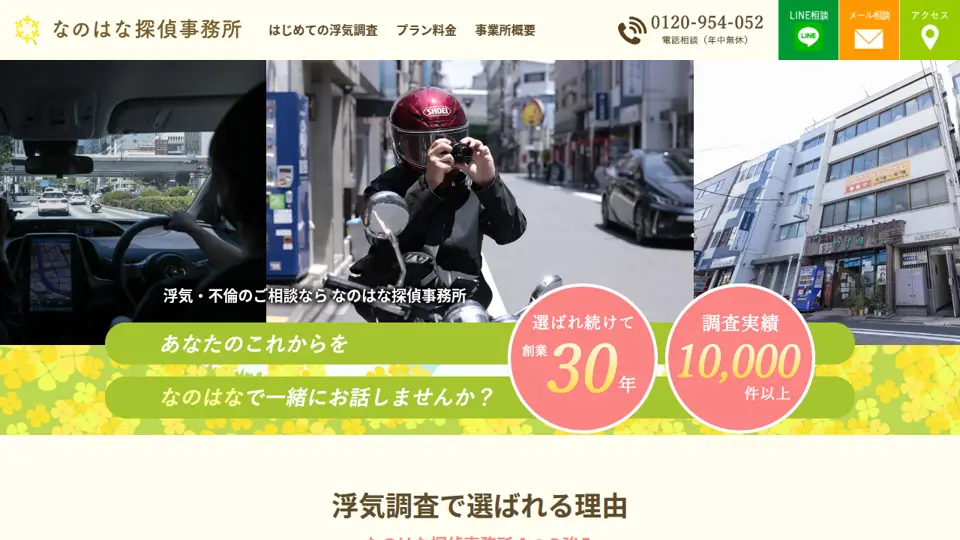
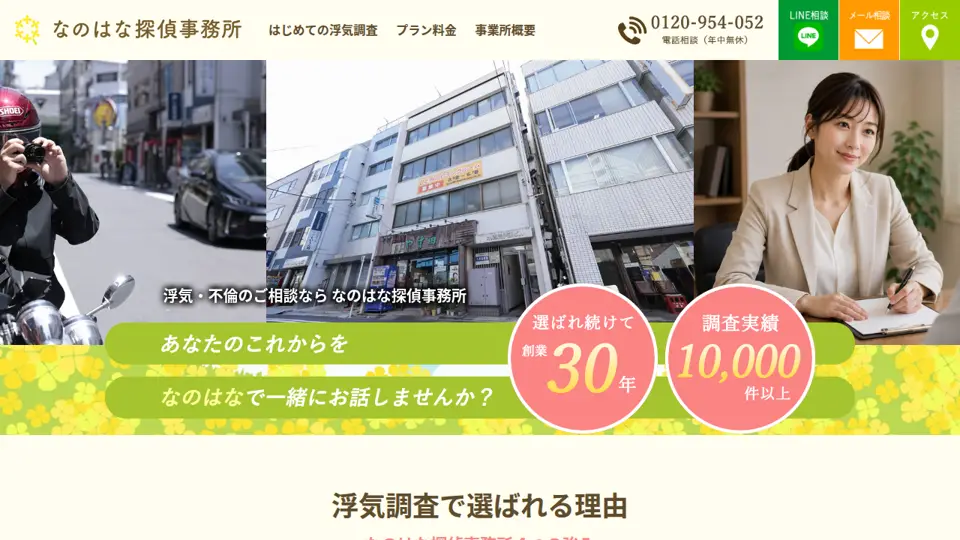
全国探偵検索: 掲載済み探偵社の掲載ページの構成・ヒーロー画像を更新（自動）

diff --git a/index.html b/index.html
@@ -555,7 +555,7 @@ footer.t-foot a:hover{text-decoration:underline}
 .t-recent-list .ad{font-size:.75rem;color:#5b6675}
 .t-recent-list .cp{font-size:.78rem;color:#33404f;line-height:1.5;display:-webkit-box;-webkit-line-clamp:2;-webkit-box-orient:vertical;overflow:hidden}
 @media(max-width:760px){.t-recent-list{display:flex;overflow-x:auto;scroll-snap-type:x mandatory;padding-bottom:8px;-webkit-overflow-scrolling:touch}.t-recent-list li{flex:0 0 72%;scroll-snap-align:start}}
-</style><h2 class="t-h"><svg viewBox="0 0 24 24" fill="none" stroke="currentColor" stroke-width="1.8" stroke-linecap="round" stroke-linejoin="round" aria-hidden="true"><path d="M12 3l2.6 5.3 5.9.9-4.3 4.1 1 5.8L12 16.4 6.8 19.1l1-5.8L3.5 9.2l5.9-.9z"/></svg><b>最近掲載された探偵社</b><i>掲載から30日以内の探偵事務所を、新しい順に表示します</i></h2><ul class="t-recent-list"><li><a href="./biz/45250017.html"><img src="./img/listed/45250017.webp?v=502fc96b" alt="" width="320" height="180" loading="lazy" decoding="async"><span class="bd"><span class="dt">11月26日 掲載</span><span class="nm">コード・シス探偵事務所</span><span class="ad">神奈川県三浦市</span><span class="cp">結果しか出しません!!成果がない場合は全額返金</span></span></a></li><li><a href="./biz/30200255.html"><img src="./img/listed/30200255.webp?v=bdd5a18e" alt="" width="320" height="180" loading="lazy" decoding="async"><span class="bd"><span class="dt">11月26日 掲載</span><span class="nm">なのはな探偵事務所</span><span class="ad">東京都千代田区</span><span class="cp">オールインクルーシブ</span></span></a></li><li><a href="./biz/30120207.html"><img src="./img/listed/30120207.webp?v=e2eeb492" alt="" width="320" height="180" loading="lazy" decoding="async"><span class="bd"><span class="dt">11月26日 掲載</span><span class="nm">総合探偵社よいルーム城北</span><span class="ad">東京都板橋区</span><span class="cp">私たちが普通の生活に戻します</span></span></a></li><li><a href="./biz/44250011.html"><img src="./img/listed/44250011.webp?v=6c846490" alt="" width="320" height="180" loading="lazy" decoding="async"><span class="bd"><span class="dt">11月25日 掲載</span><span class="nm">プライバシーク合同会社千葉支社</span><span class="ad">千葉県市川市</span><span class="cp">法人内での不正を追及します。</span></span></a></li><li><a href="./biz/62251072.html"><img src="./img/listed/62251072.webp?v=0d3c7541" alt="" width="320" height="180" loading="lazy" decoding="async"><span class="bd"><span class="dt">11月24日 掲載</span><span class="nm">シープ探偵社</span><span class="ad">大阪府大阪市天王寺区</span><span class="cp">【お得】初回調査プラン5時間29，800円</span></span></a></li><li><a href="./biz/62240046.html"><img src="./img/listed/62240046.webp?v=2b942b2a" alt="" width="320" height="180" loading="lazy" decoding="async"><span class="bd"><span class="dt">11月22日 掲載</span><span class="nm">MZ総合探偵社</span><span class="ad">大阪府東大阪市</span><span class="cp">名前も電話番号も伝えずに相談できる探偵社。24時間・匿名OK・相談0円</span></span></a></li><li><a href="./biz/45230083.html"><img src="./img/listed/45230083.webp?v=d35a2253" alt="" width="320" height="180" loading="lazy" decoding="async"><span class="bd"><span class="dt">11月20日 掲載</span><span class="nm">そよかぜ探偵事務所横浜営業所</span><span class="ad">神奈川県横浜市西区</span><span class="cp">千葉を代表する企業100選に選出。夫婦のお悩みは浮気調査の専門探偵にお任せください。</span></span></a></li><li><a href="./biz/30230120.html"><img src="./img/listed/30230120.webp?v=d35a2253" alt="" width="320" height="180" loading="lazy" decoding="async"><span class="bd"><span class="dt">11月20日 掲載</span><span class="nm">そよかぜ探偵事務所 東京本店</span><span class="ad">東京都中央区</span><span class="cp">千葉を代表する企業100選に選出。夫婦のお悩みは浮気調査の専門探偵にお任せください。</span></span></a></li><li><a href="./biz/30230307.html"><img src="./img/listed/30230307.webp?v=6858b62f" alt="" width="320" height="180" loading="lazy" decoding="async"><span class="bd"><span class="dt">11月20日 掲載</span><span class="nm">株式会社Beerus</span><span class="ad">東京都・東京都豊島区</span><span class="cp">安全な調査を、安心価格でお届けします。浮気調査・人探しが得意な探偵事務所</span></span></a></li><li><a href="./biz/44250032.html"><img src="./img/listed/44250032.webp?v=d35a2253" alt="" width="320" height="180" loading="lazy" decoding="async"><span class="bd"><span class="dt">11月20日 掲載</span><span class="nm">そよかぜ探偵事務所</span><span class="ad">千葉県市川市</span><span class="cp">千葉を代表する企業100選に選出。夫婦のお悩みは浮気調査の専門探偵にお任せください。</span></span></a></li><li><a href="./biz/55111801.html"><img src="./img/listed/55111801.webp?v=c8ea2e24" alt="" width="320" height="180" loading="lazy" decoding="async"><span class="bd"><span class="dt">11月20日 掲載</span><span class="nm">フューチャーライフ</span><span class="ad">三重県名張市</span><span class="cp">相談のみOK 24時間対応</span></span></a></li><li><a href="./biz/64261701.html"><img src="./img/listed/64261701.webp?v=c029b505" alt="" width="320" height="180" loading="lazy" decoding="async"><span class="bd"><span class="dt">11月20日 掲載</span><span class="nm">総合探偵社シークレットジャパン奈良本部</span><span class="ad">奈良県北葛城郡王寺町</span><span class="cp">奈良県王寺町を拠点に、浮気・素行・人探しなどの調査を承ります。</span></span></a></li></ul></section><!--recent-listed:end-->
+</style><h2 class="t-h"><svg viewBox="0 0 24 24" fill="none" stroke="currentColor" stroke-width="1.8" stroke-linecap="round" stroke-linejoin="round" aria-hidden="true"><path d="M12 3l2.6 5.3 5.9.9-4.3 4.1 1 5.8L12 16.4 6.8 19.1l1-5.8L3.5 9.2l5.9-.9z"/></svg><b>最近掲載された探偵社</b><i>掲載から30日以内の探偵事務所を、新しい順に表示します</i></h2><ul class="t-recent-list"><li><a href="./biz/45250017.html"><img src="./img/listed/45250017.webp?v=84b47580" alt="" width="320" height="180" loading="lazy" decoding="async"><span class="bd"><span class="dt">11月26日 掲載</span><span class="nm">コード・シス探偵事務所</span><span class="ad">神奈川県三浦市</span><span class="cp">結果しか出しません!!成果がない場合は全額返金</span></span></a></li><li><a href="./biz/30200255.html"><img src="./img/listed/30200255.webp?v=c813e0d3" alt="" width="320" height="180" loading="lazy" decoding="async"><span class="bd"><span class="dt">11月26日 掲載</span><span class="nm">なのはな探偵事務所</span><span class="ad">東京都千代田区</span><span class="cp">オールインクルーシブ</span></span></a></li><li><a href="./biz/30120207.html"><img src="./img/listed/30120207.webp?v=e2eeb492" alt="" width="320" height="180" loading="lazy" decoding="async"><span class="bd"><span class="dt">11月26日 掲載</span><span class="nm">総合探偵社よいルーム城北</span><span class="ad">東京都板橋区</span><span class="cp">私たちが普通の生活に戻します</span></span></a></li><li><a href="./biz/44250011.html"><img src="./img/listed/44250011.webp?v=6c846490" alt="" width="320" height="180" loading="lazy" decoding="async"><span class="bd"><span class="dt">11月25日 掲載</span><span class="nm">プライバシーク合同会社千葉支社</span><span class="ad">千葉県市川市</span><span class="cp">法人内での不正を追及します。</span></span></a></li><li><a href="./biz/62251072.html"><img src="./img/listed/62251072.webp?v=0d3c7541" alt="" width="320" height="180" loading="lazy" decoding="async"><span class="bd"><span class="dt">11月24日 掲載</span><span class="nm">シープ探偵社</span><span class="ad">大阪府大阪市天王寺区</span><span class="cp">【お得】初回調査プラン5時間29，800円</span></span></a></li><li><a href="./biz/62240046.html"><img src="./img/listed/62240046.webp?v=2b942b2a" alt="" width="320" height="180" loading="lazy" decoding="async"><span class="bd"><span class="dt">11月22日 掲載</span><span class="nm">MZ総合探偵社</span><span class="ad">大阪府東大阪市</span><span class="cp">名前も電話番号も伝えずに相談できる探偵社。24時間・匿名OK・相談0円</span></span></a></li><li><a href="./biz/45230083.html"><img src="./img/listed/45230083.webp?v=d35a2253" alt="" width="320" height="180" loading="lazy" decoding="async"><span class="bd"><span class="dt">11月20日 掲載</span><span class="nm">そよかぜ探偵事務所横浜営業所</span><span class="ad">神奈川県横浜市西区</span><span class="cp">千葉を代表する企業100選に選出。夫婦のお悩みは浮気調査の専門探偵にお任せください。</span></span></a></li><li><a href="./biz/30230120.html"><img src="./img/listed/30230120.webp?v=d35a2253" alt="" width="320" height="180" loading="lazy" decoding="async"><span class="bd"><span class="dt">11月20日 掲載</span><span class="nm">そよかぜ探偵事務所 東京本店</span><span class="ad">東京都中央区</span><span class="cp">千葉を代表する企業100選に選出。夫婦のお悩みは浮気調査の専門探偵にお任せください。</span></span></a></li><li><a href="./biz/30230307.html"><img src="./img/listed/30230307.webp?v=6858b62f" alt="" width="320" height="180" loading="lazy" decoding="async"><span class="bd"><span class="dt">11月20日 掲載</span><span class="nm">株式会社Beerus</span><span class="ad">東京都・東京都豊島区</span><span class="cp">安全な調査を、安心価格でお届けします。浮気調査・人探しが得意な探偵事務所</span></span></a></li><li><a href="./biz/44250032.html"><img src="./img/listed/44250032.webp?v=d35a2253" alt="" width="320" height="180" loading="lazy" decoding="async"><span class="bd"><span class="dt">11月20日 掲載</span><span class="nm">そよかぜ探偵事務所</span><span class="ad">千葉県市川市</span><span class="cp">千葉を代表する企業100選に選出。夫婦のお悩みは浮気調査の専門探偵にお任せください。</span></span></a></li><li><a href="./biz/55111801.html"><img src="./img/listed/55111801.webp?v=c8ea2e24" alt="" width="320" height="180" loading="lazy" decoding="async"><span class="bd"><span class="dt">11月20日 掲載</span><span class="nm">フューチャーライフ</span><span class="ad">三重県名張市</span><span class="cp">相談のみOK 24時間対応</span></span></a></li><li><a href="./biz/64261701.html"><img src="./img/listed/64261701.webp?v=c029b505" alt="" width="320" height="180" loading="lazy" decoding="async"><span class="bd"><span class="dt">11月20日 掲載</span><span class="nm">総合探偵社シークレットジャパン奈良本部</span><span class="ad">奈良県北葛城郡王寺町</span><span class="cp">奈良県王寺町を拠点に、浮気・素行・人探しなどの調査を承ります。</span></span></a></li></ul></section><!--recent-listed:end-->
 
 <section class="t-box"><h2 class="t-h"><svg viewBox="0 0 24 24" fill="none" stroke="currentColor" stroke-width="1.8" stroke-linecap="round" stroke-linejoin="round" aria-hidden="true"><circle cx="12" cy="12" r="9"/><path d="M9.5 9.5a2.5 2.5 0 1 1 3.5 2.3c-.6.3-1 .9-1 1.6V14M12 17.5v.01"/></svg><b>よくある質問</b><i>このサイトの使い方</i></h2>
 <dl class="t-qa"><dt><span>業者名で検索できますか？</span></dt><dd><span>ページ上部の検索欄から、業者名で全国の届出業者を検索できます。都道府県を選んで絞り込むこともできます。</span></dd></dl>

diff --git a/biz/30200255.html b/biz/30200255.html
@@ -17,7 +17,7 @@
 </div></div>
 <div class="t-wrap">
 <main style="max-width:none;margin:0;padding:0">
-<div class="cert-frame has-hero" style="--hero:url(/img/listed/30200255.webp?v=bdd5a18e)">
+<div class="cert-frame has-hero" style="--hero:url(/img/listed/30200255.webp?v=c813e0d3)">
 <span class="cert-corner tl"></span><span class="cert-corner tr"></span><span class="cert-corner bl"></span><span class="cert-corner br"></span>
 <span class="cert-sparkle" style="top:18px;left:18%;animation-delay:.2s">✨</span>
 <span class="cert-sparkle" style="top:26px;right:16%;animation-delay:.8s">✨</span>

diff --git a/biz/45250017.html b/biz/45250017.html
@@ -17,7 +17,7 @@
 </div></div>
 <div class="t-wrap">
 <main style="max-width:none;margin:0;padding:0">
-<div class="cert-frame has-hero" style="--hero:url(/img/listed/45250017.webp?v=502fc96b)">
+<div class="cert-frame has-hero" style="--hero:url(/img/listed/45250017.webp?v=84b47580)">
 <span class="cert-corner tl"></span><span class="cert-corner tr"></span><span class="cert-corner bl"></span><span class="cert-corner br"></span>
 <span class="cert-sparkle" style="top:18px;left:18%;animation-delay:.2s">✨</span>
 <span class="cert-sparkle" style="top:26px;right:16%;animation-delay:.8s">✨</span>
